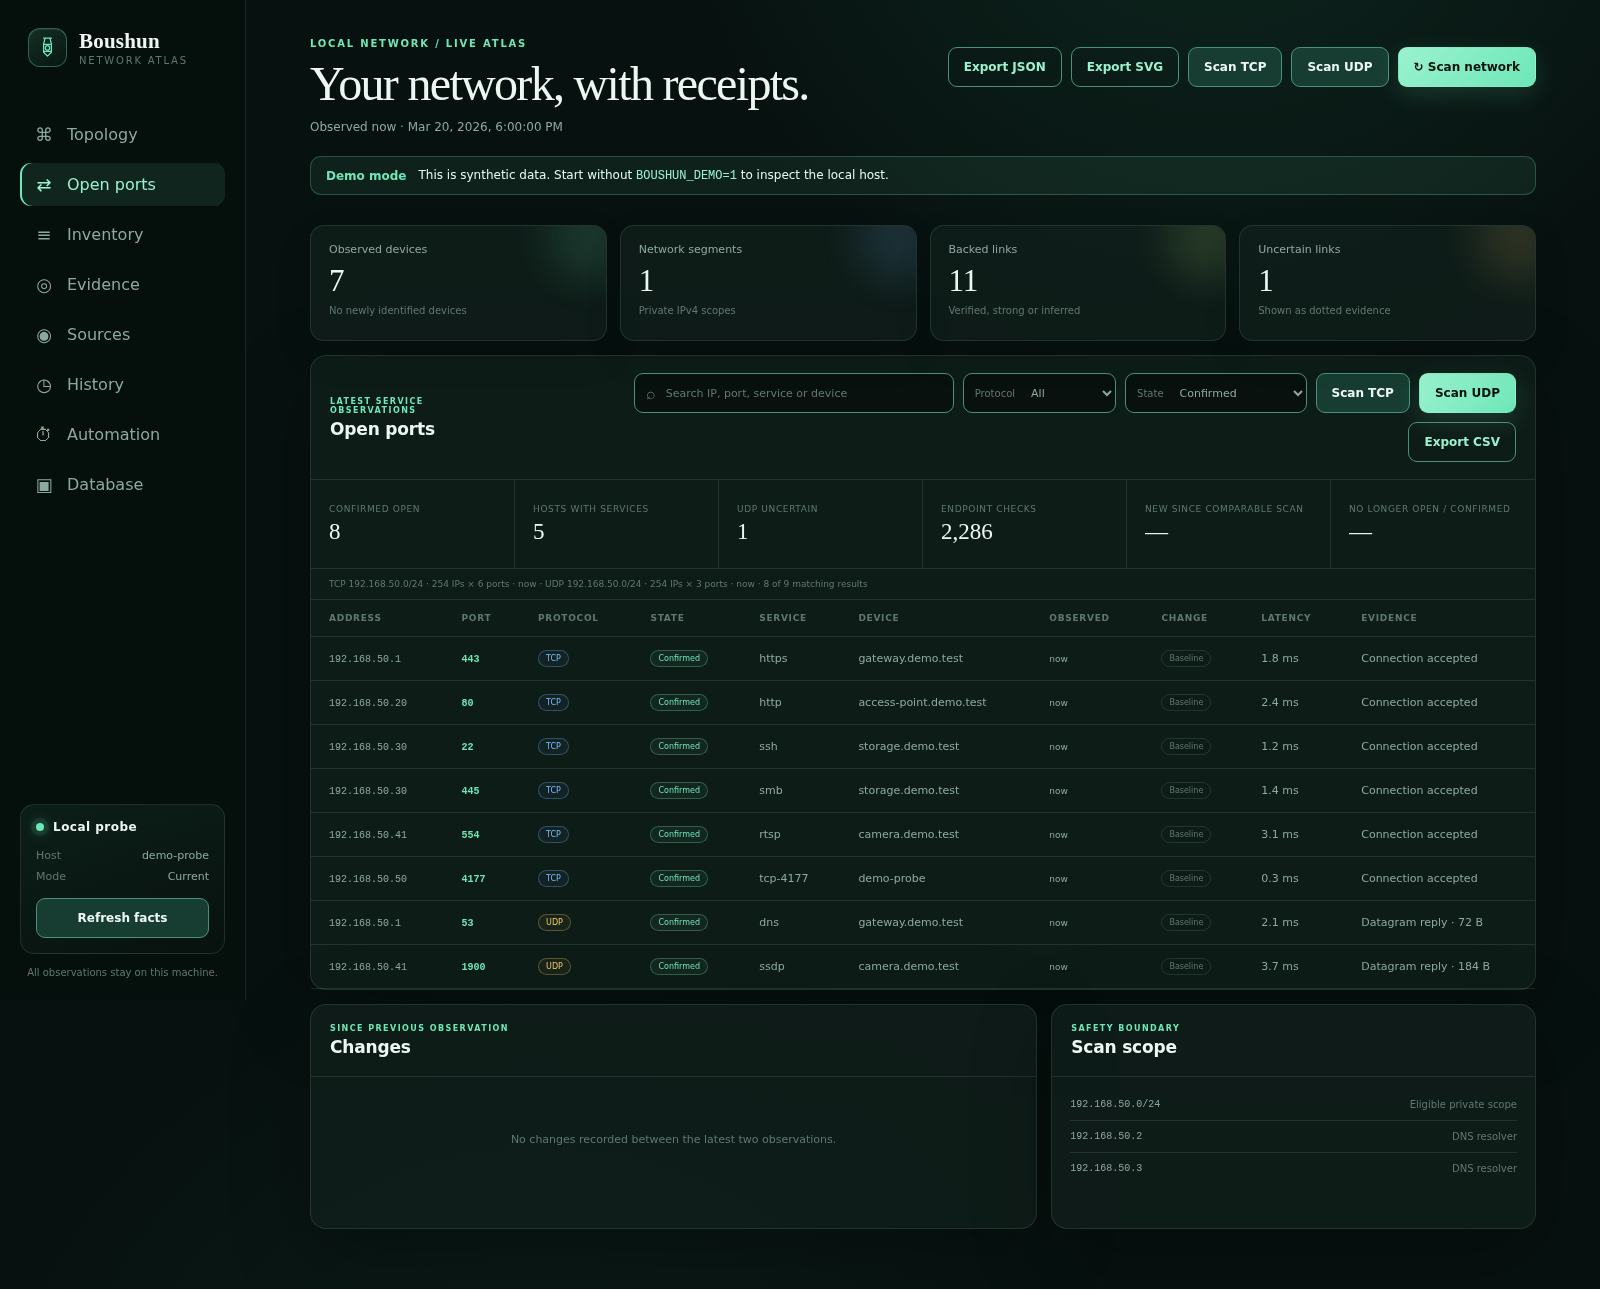
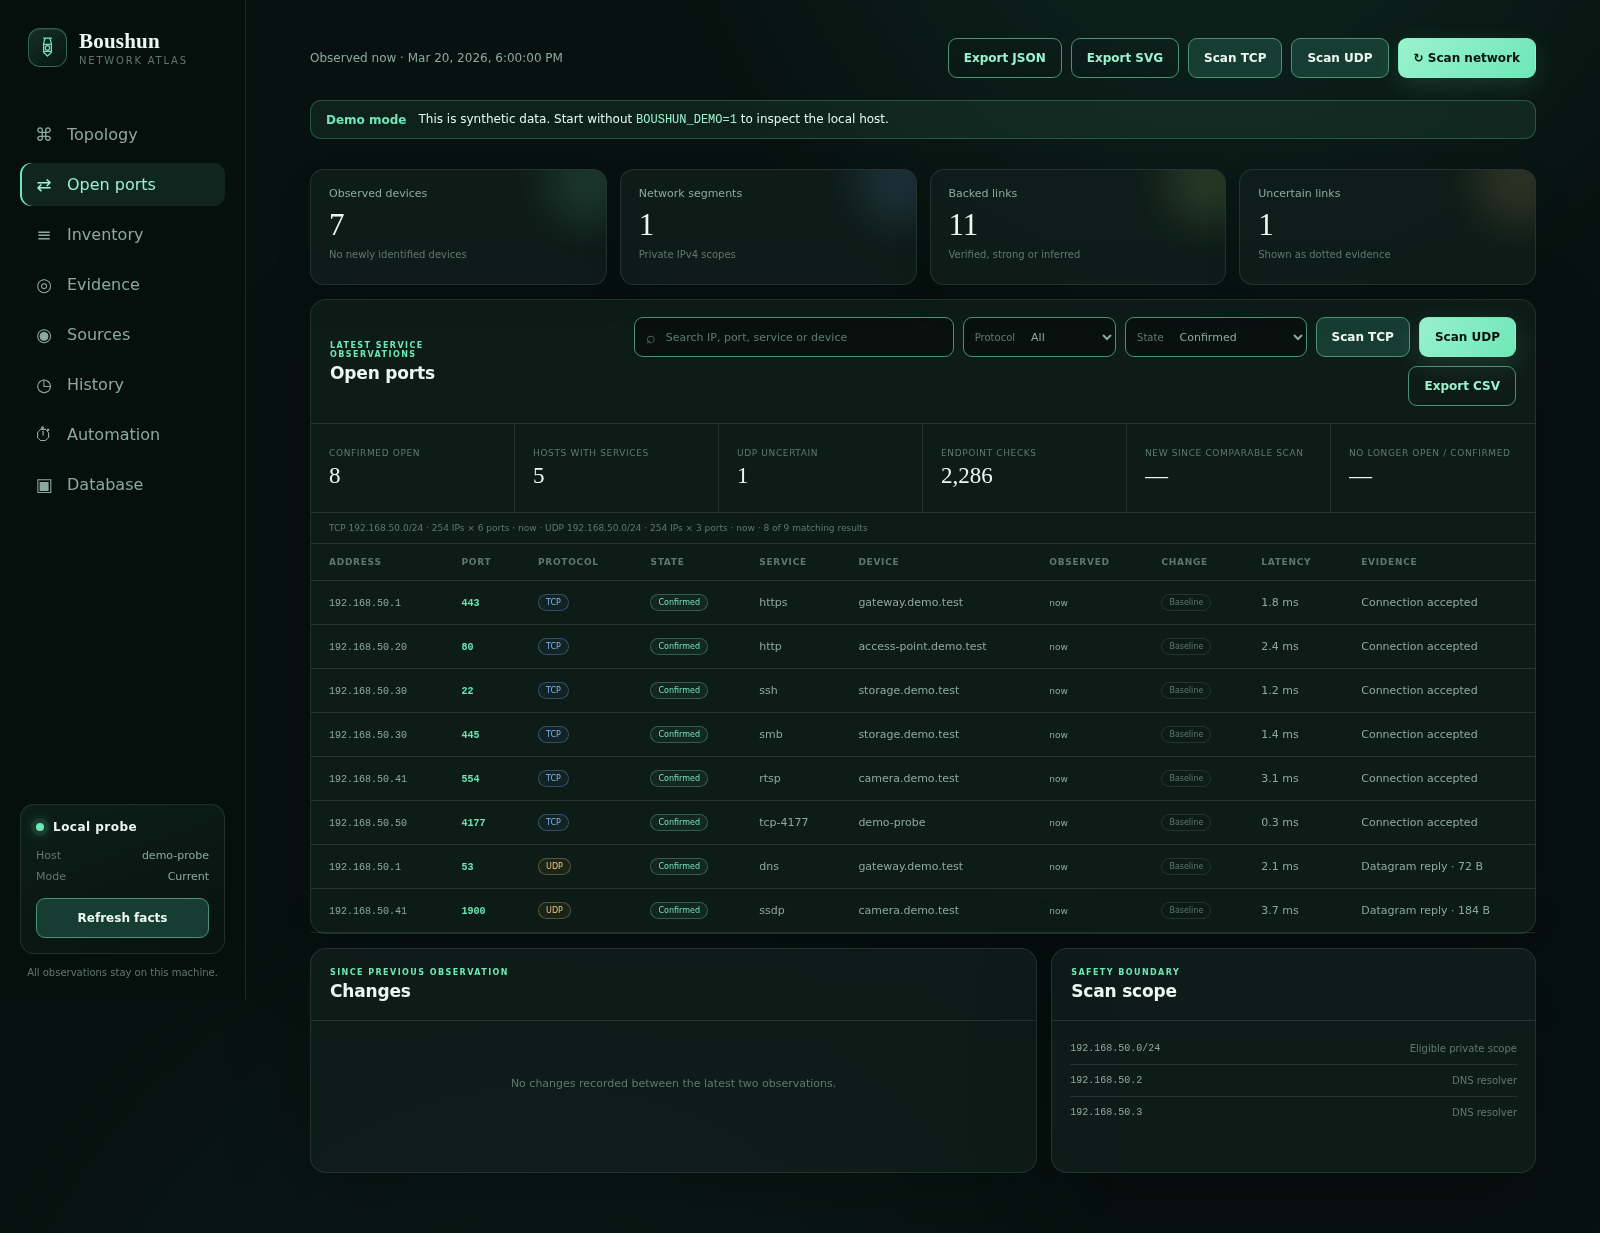
refactor(ui): simplify the header to observation time and actions

diff --git a/src/web/styles.css b/src/web/styles.css
@@ -93,12 +93,11 @@ button { color: inherit; }
 .privacy-note { margin: 13px 3px 0; color: var(--faint); font-size: 10px; text-align: center; }
 
 .main-content { width: min(1540px, 100%); margin-inline: auto; padding: 38px clamp(26px, 4vw, 66px) 60px; }
-.topbar { display: flex; justify-content: space-between; align-items: flex-start; gap: 32px; }
-.eyebrow, .section-kicker { margin: 0 0 7px; color: var(--mint); font-size: 10px; font-weight: 700; letter-spacing: .18em; text-transform: uppercase; }
-h1, h2, h3, p { overflow-wrap: anywhere; }
-h1 { margin: 0; font-family: Georgia, "Times New Roman", serif; font-size: clamp(31px, 4vw, 48px); font-weight: 500; letter-spacing: -.035em; }
-.last-seen { margin: 9px 0 0; color: var(--muted); font-size: 12px; }
-.top-actions { display: flex; flex-wrap: wrap; justify-content: flex-end; gap: 9px; padding-top: 9px; }
+.topbar { display: flex; justify-content: space-between; align-items: center; gap: 16px; }
+.section-kicker { margin: 0 0 7px; color: var(--mint); font-size: 10px; font-weight: 700; letter-spacing: .18em; text-transform: uppercase; }
+h2, h3, p { overflow-wrap: anywhere; }
+.last-seen { margin: 0; color: var(--muted); font-size: 12px; }
+.top-actions { display: flex; flex-wrap: wrap; justify-content: flex-end; gap: 9px; }
 
 .button { min-height: 40px; border: 1px solid transparent; border-radius: 9px; padding: 0 15px; font-size: 12px; font-weight: 700; cursor: pointer; transition: transform .12s ease, background .15s ease, border-color .15s ease, box-shadow .15s ease; }
 .button:hover { transform: translateY(-1px); }
@@ -514,7 +513,7 @@ dialog input { width: 100%; height: 43px; border: 1px solid var(--control-border
   .nav-item { flex: 0 0 42px; width: 42px; }
   .sidebar-spacer { display: none; }
   .main-content { padding: 25px 15px 45px; }
-  .topbar { display: block; }
+  .topbar { flex-direction: column; align-items: stretch; gap: 12px; }
   .top-actions { justify-content: flex-start; }
   .stats-grid { grid-template-columns: repeat(2, minmax(0,1fr)); }
   .panel-header { align-items: flex-start; flex-direction: column; }

diff --git a/src/web/index.html b/src/web/index.html
@@ -65,11 +65,7 @@
 
       <main class="main-content">
         <header class="topbar">
-          <div>
-            <p class="eyebrow">Local network / live atlas</p>
-            <h1>Your network, with receipts.</h1>
-            <p class="last-seen" id="last-seen">Loading the latest observation…</p>
-          </div>
+          <p class="last-seen" id="last-seen">Loading the latest observation…</p>
           <div class="top-actions">
             <button class="button tertiary" id="export-json">Export JSON</button>
             <button class="button tertiary" id="export-svg">Export SVG</button>
